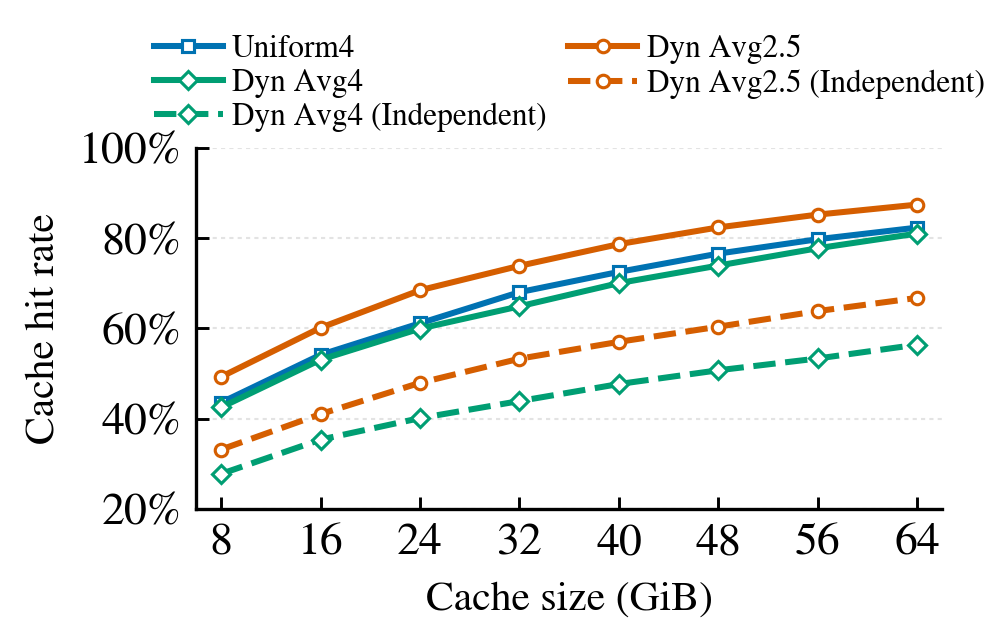
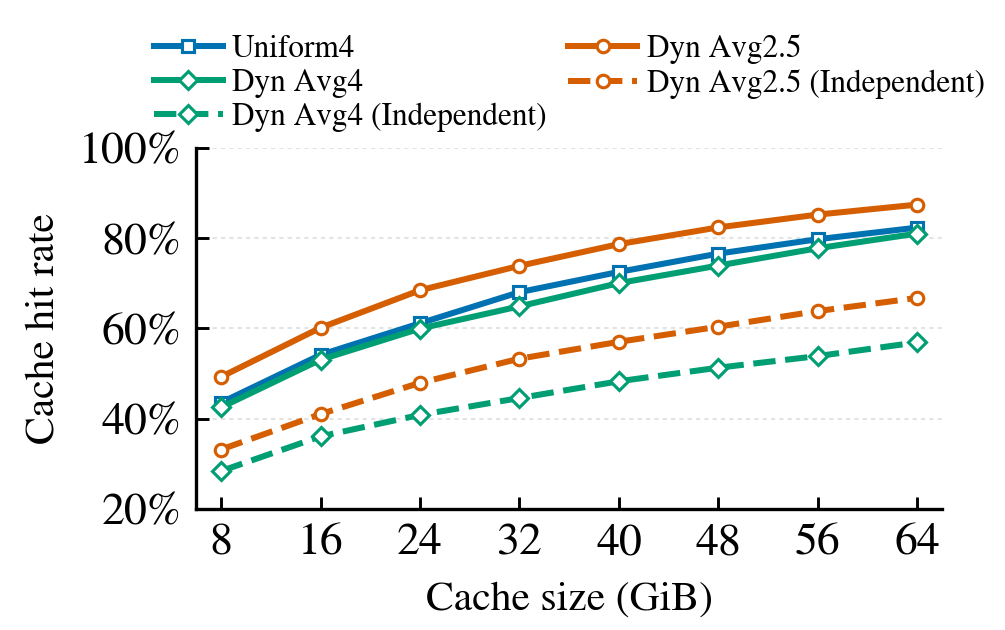
Use byte hit rate for independent Avg4

Changed region(s): [[0.2776, 0.5127, 0.9254, 0.7238], [0.2159, 0.7238, 0.2776, 0.7841]]

diff --git a/figure/precision-object-cache-hit-rate/plot_precision_object_cache_hit_rate.py b/figure/precision-object-cache-hit-rate/plot_precision_object_cache_hit_rate.py
@@ -406,7 +406,7 @@ def write_plot_series_csv(
         writer = csv.writer(csv_file, lineterminator="\n")
         writer.writerow(["series", "cache_gib", "hit_rate"])
         for result in results:
-            writer.writerow([spec.naive_label, result.cache_gib, f"{result.request_hit_rate:.8f}"])
+            writer.writerow([spec.naive_label, result.cache_gib, f"{result.byte_hit_rate:.8f}"])
         for case, label in (
             (spec.dynamic_case, spec.dynamic_label),
             (spec.static_case, spec.static_label),
@@ -453,7 +453,7 @@ def plot(
     fig, ax = plt.subplots(figsize=(3.35, 2.35))
 
     trace_values = [
-        (result.cache_gib, result.request_hit_rate * 100.0) for result in results
+        (result.cache_gib, result.byte_hit_rate * 100.0) for result in results
     ]
     all_series = {
         "naive": (spec.naive_label, trace_values),
